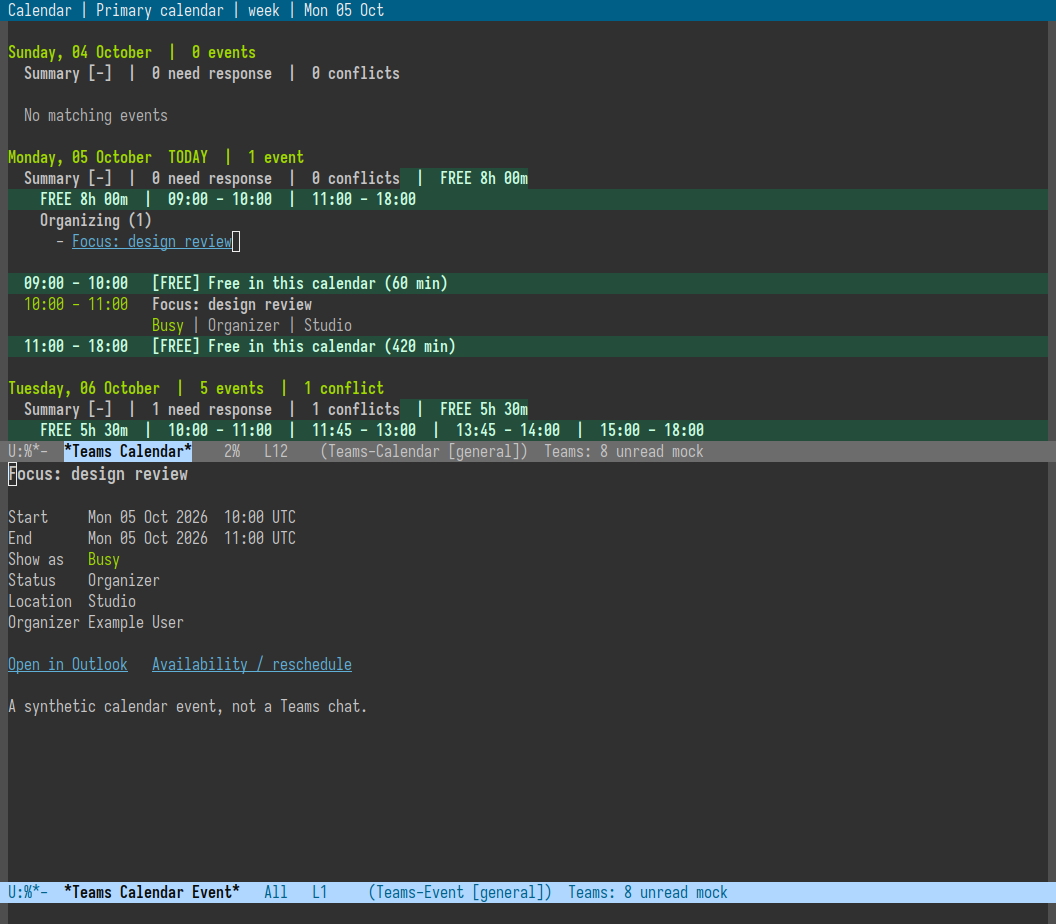
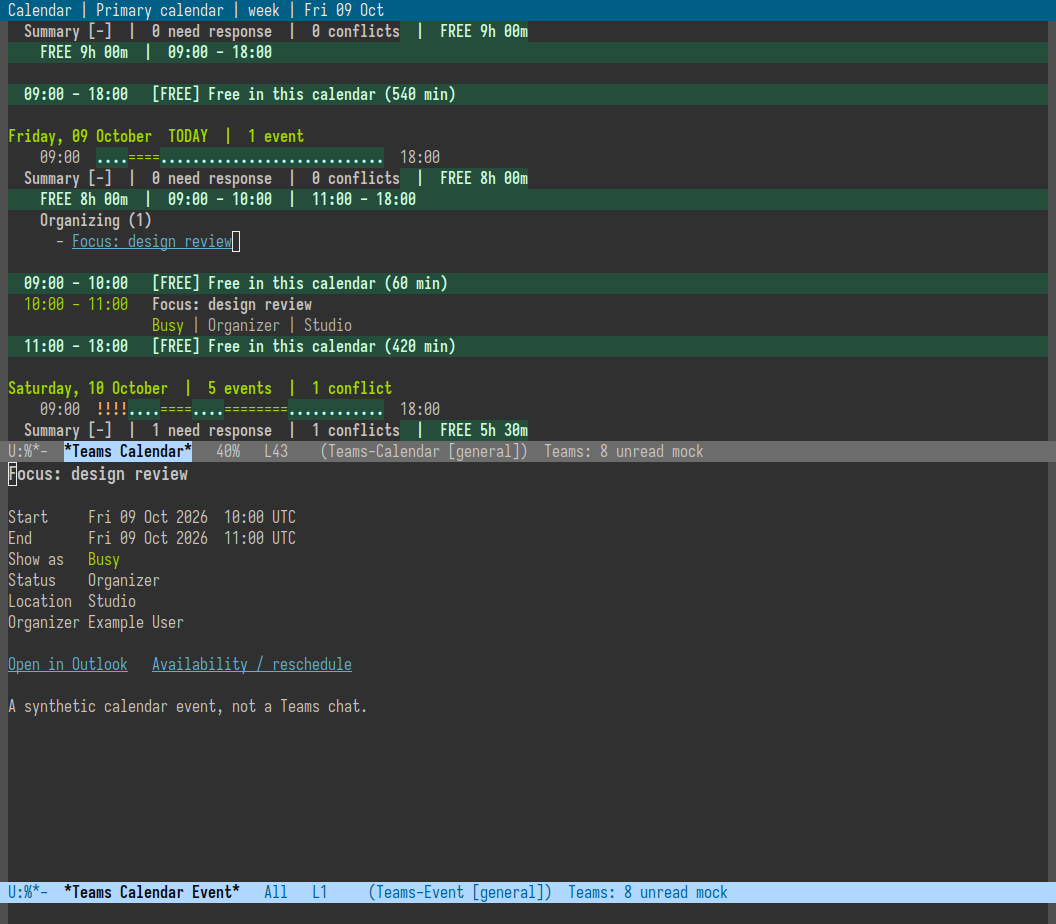
Document calendar planning with verified Moe day-map captures

Changed region(s): [[0.0, 0.0, 1.0, 0.1818], [0.0, 0.3939, 1.0, 0.4848], [0.0625, 0.5455, 0.125, 0.6061]]

diff --git a/CALENDAR.md b/CALENDAR.md
@@ -180,6 +180,8 @@ As with free gaps, overlap detection covers only the loaded selected calendar.
 
 The [invite detail](assets/calendar-conflicts.png) and expanded agenda above use
 real Emacs with Moe and window-purpose, with synthetic appointments only.
+The capture fixture uses daily working hours so the demo also shows free time
+when run on a weekend; the package's default working days remain Monday-Friday.
 
 These are ordinary, customizable Emacs keymaps:
 `teams4e-calendar-mode-map` and `teams4e-calendar-event-mode-map`.
